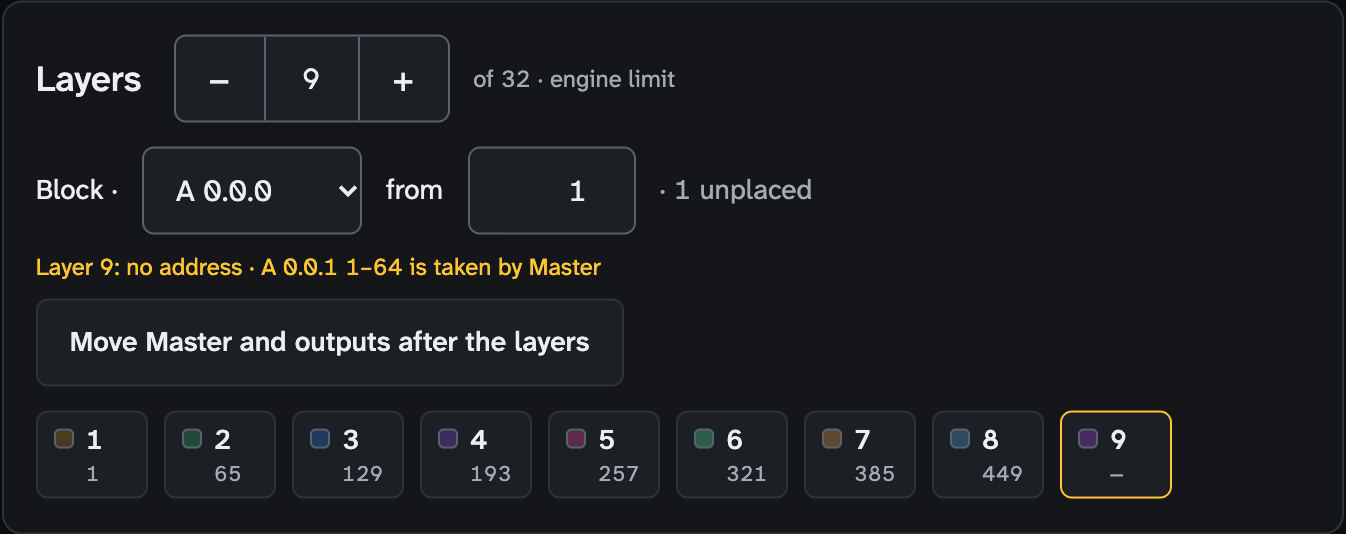
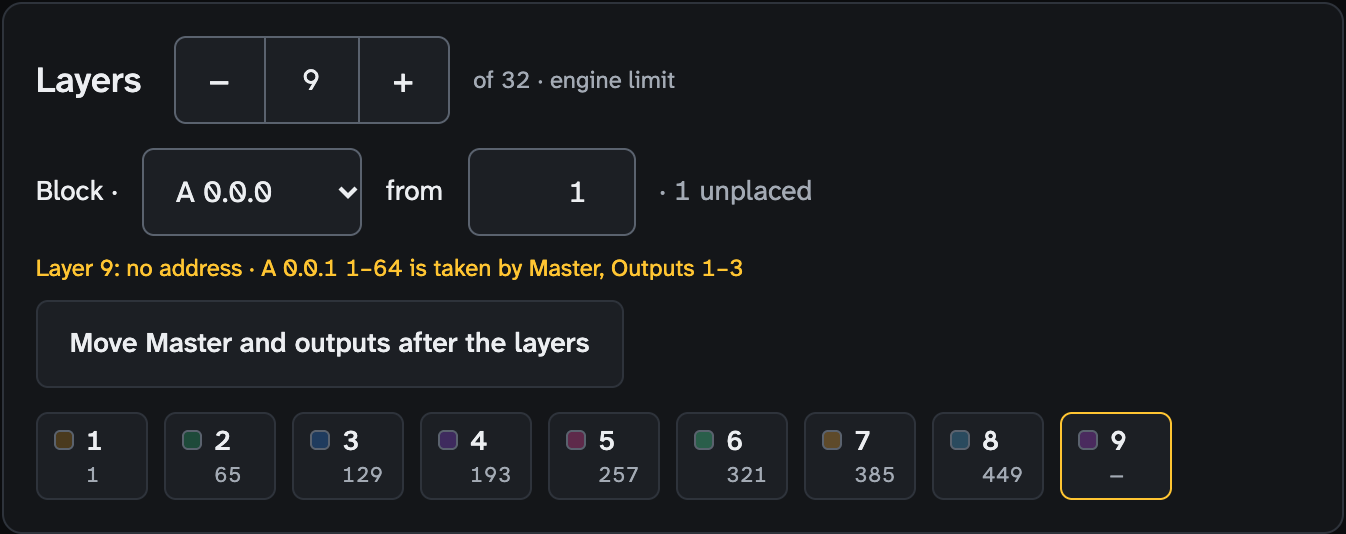
Offer the move only when every blocker moves, retake the picture
moveAfterLayers offered the move when one blocker was in a later group,
so a Keystone placed by hand in a group without a block stayed under the
new layer. The test pins both cases; DESIGN quotes the new note and the
guide picture shows it (demo project, standard patch, three outputs).

diff --git a/web/src/lib/patch-screen.ts b/web/src/lib/patch-screen.ts
@@ -556,7 +556,8 @@ export function standardStart(groups: readonly Group[], index: number): Slot | n
  * "Move Master and outputs after the layers" (DESIGN §6.6 item 2), offered when a layer found no room because a later
  * group sits on its slot: lays each later group that has a block from the universe after the last layer slot, each
  * after the one before, and puts the unplaced layers on their slots, as one `patch.setMany`. Null when no layer is
- * blocked by a later group, or a later group would run past the last universe.
+ * blocked, when something in a layer's way would stay (placed by hand, or in a group without a block), or a later group
+ * would run past the last universe.
  */
 export function moveAfterLayers(groups: readonly Group[]): PatchEntry[] | null {
   const i = groups.findIndex((g) => g.ownUniverses);
@@ -564,8 +565,8 @@ export function moveAfterLayers(groups: readonly Group[]): PatchEntry[] | null {
   const start = layers?.block.start;
   if (!layers || !start) return null;
   const later = groups.slice(i + 1);
-  const names = new Set(later.flatMap((g) => g.rows.map((r) => r.name)));
-  if (!layers.rows.some((r) => r.blocked?.by.some((o) => names.has(o.name)))) return null;
+  const blockers = layers.rows.flatMap((r) => r.blocked?.by ?? []);
+  if (blockers.length === 0) return null;
   const slots = groupSlots(layers, start);
   const entries: PatchEntry[] = [];
   for (const r of layers.rows) {
@@ -582,7 +583,8 @@ export function moveAfterLayers(groups: readonly Group[]): PatchEntry[] | null {
     }
     from = after(g, from);
   }
-  return entries;
+  const moved = new Set(entries.map((e) => e.fixture));
+  return blockers.every((o) => moved.has(o.name)) ? entries : null;
 }
 
 /**

diff --git a/web/src/lib/patch-screen.test.ts b/web/src/lib/patch-screen.test.ts
@@ -349,6 +349,17 @@ describe('blocks', () => {
     // every output in the way is named, Keystone 2 at 89 is past the layer's 64 channels
     const seven = buildPatch([...patch, ...[3, 4, 5, 6, 7].map((n) => at(`Output ${n}`, 'artnet:0.0.1', 1 + 8 * n))], 9, map, [1, 2, 3, 4, 5, 6, 7]);
     expect(rowStatus(seven.rows.find((r) => r.name === 'Layer 9')!, 'internal').text).toBe('no address · A 0.0.1 1–64 is taken by Master, Outputs 1–7');
+    // a Keystone placed by hand is in the way too, while its outputs have no block: the move would lay Layer 9 on
+    // it, so it is not offered; with the outputs patched the Keystone moves along with them
+    const lone = buildPatch([...standard.slice(0, 9), at('Keystone 2', 'artnet:0.0.1', 40)], 9, map, [1, 2]);
+    expect(rowStatus(lone.rows.find((r) => r.name === 'Layer 9')!, 'internal').text).toBe('no address · A 0.0.1 1–64 is taken by Master, Keystone 2');
+    expect(moveAfterLayers(lone.groups)).toBeNull();
+    const along = buildPatch([...standard, at('Keystone 2', 'artnet:0.0.1', 40)], 9, map, [1, 2]);
+    expect(moveAfterLayers(along.groups)).toEqual([
+      at('Layer 9', 'artnet:0.0.1', 1),
+      at('Master', 'artnet:0.0.2', 1),
+      at('Output 1', 'artnet:0.0.2', 9), at('Output 2', 'artnet:0.0.2', 17), at('Keystone 2', 'artnet:0.0.2', 89),
+    ]);
     // nothing blocked: not offered
     expect(moveAfterLayers(buildPatch(standard, 8, map, [1, 2]).groups)).toBeNull();
   });

diff --git a/docs/BACKLOG.md b/docs/BACKLOG.md
@@ -173,7 +173,7 @@ has to act (engine = this codebase, owner = Tim).
 | B165 | An image sequence is always transcoded at 25 fps from the Media screen (`Media.svelte:132` sends `fps: 25`, no field), so a 24, 30 or 50 fps sequence is conformed to 25; only the `fanousd ingest --fps` command and the ingest API take another rate. Found in the docs gap analysis 2026-11-05 | Docs rewrite 2026-11-05 | A frame-rate field on the sequence tile (default 25) | web |
 | B166 | The ArtPollReply advertises the Mac's first non-loopback IPv4 address in `getifaddrs` order (`DMXReceivers.swift:67`, `SystemInfo.swift:31`), not the address on the poller's subnet, so a desk that unicasts to discovered nodes can pick the Wi-Fi address on a Mac with a show adapter; the MAC field is zero (the call at `DMXReceivers.swift:68-70` passes none; `ArtNet.swift:134,151`), so two Macs look like one node to a desk that keys on MAC. Found in the docs review 2026-11-05 | Docs rewrite 2026-11-05 | Reply with the address of the interface the ArtPoll arrived on and the real MAC | engine |
 | B167 | A program that holds UDP 6454 exclusively makes the Art-Net listener fail with a log line only (`DMXReceivers.swift:36`); the readiness list has an item for the sACN port but none for Art-Net (`ShowMode.swift:254-260`). Found in the docs review 2026-11-05 | Docs rewrite 2026-11-05 | A readiness item "Art-Net port 6454 available" like the sACN one | engine |
-| B168 | ~~When Add layer finds the new layer's place taken, the note names only the first fixture in the way (`takenBy`, `patch-screen.ts:484`: "taken by Master") although the outputs at 9–32 overlap too. Found in the docs review 2026-11-05~~ **Done 2026-11-06** (PR #320): the note names every patched fixture on the new layer's channels, by address, through the Universes panel's `fixturesText` ("taken by Master, Outputs 1–3"), so a long run stays one short phrase; Move Master and outputs is offered when any of them belongs to a later group | Docs rewrite 2026-11-05 | Name every fixture in the way | web |
+| B168 | ~~When Add layer finds the new layer's place taken, the note names only the first fixture in the way (`takenBy`, `patch-screen.ts:484`: "taken by Master") although the outputs at 9–32 overlap too. Found in the docs review 2026-11-05~~ **Done 2026-11-06** (PR #320): the note names every patched fixture on the new layer's channels, by address, through the Universes panel's `fixturesText` ("taken by Master, Outputs 1–3"), so a long run stays one short phrase; Move Master and outputs is offered only when every one of them moves (not with a fixture placed by hand outside a group block in the way) | Docs rewrite 2026-11-05 | Name every fixture in the way | web |
 | B169 | **Transcode** on a `.mov` that needs a transcode (H.264 or HEVC in `.mov`, which is what an iPhone records, or a rotated ProRes file) fails with "source and destination are the same file": the tile sends the source's own number and name (`Media.svelte:131-132`), `IngestAPI` builds the destination `NNN_name.mov` from them, and `IngestQueue.swift:259` refuses. Measured 2026-11-05 on the test engine with an H.264 `.mov`: the job fails at once. **Import…** works for such a file (the destination gets the next free number). Found in the docs review 2026-11-05 | Docs rewrite 2026-11-05 | Write to a temporary name and move the source to `_originals/` first, as Import does | engine |
 | B170 | The ingest queue shows the destination path URL-encoded (`2%20Band/002_phone.mov` for a folder named `2 Band`, `MediaIngestQueue.svelte`). Found while taking the guide's pictures 2026-11-05 | Docs rewrite 2026-11-05 | Decode the path for display | web |
 | B171 | The show lock does not cover the library: `POST /api/library/folder`, `/api/ingest` and `PUT /api/upload` check the programmer role only (`RESTRoutes.swift:38-62`), so New folder, Import… and Transcode work on a locked show while every WebSocket change is refused; the guide says so. Found in the docs review 2026-11-05 | Docs rewrite 2026-11-05 | Decide whether a locked show should refuse library writes too (a transcode costs CPU during a show) | engine |

diff --git a/docs/DESIGN.md b/docs/DESIGN.md
@@ -964,8 +964,9 @@ code on 2026-10-30:
   moving a block and editing one fixture may overlap; the overlap shows in
   red, as today.
 - **A new fixture that found no room** says why: "no address · A 0.0.1 1–64 is
-  taken by Master". In the common case (an 8-layer project adding Layer 9,
-  whose slot is the Master's) the Layers group offers **Move Master and
+  taken by Master, Outputs 1–3" (every fixture in the way). In the common
+  case (an 8-layer project adding Layer 9, whose slot is the Master's) the
+  Layers group offers **Move Master and
   outputs after the layers**: one `patch.setMany` that moves the Master,
   Outputs and Keystone blocks to the universe after the last layer slot and
   puts the unplaced layers on their slots, as one undo step. It changes the
@@ -1161,7 +1162,7 @@ guide changes with the step that changes what it describes (4–6).
   the anchor's start falls below 1, Re-lay lays from address 1 of the anchor's
   universe.
 - The Master group has the same block line as the others (a block of one).
-- The blocker ("no address · A 0.0.1 1–64 is taken by Master", yellow) is
+- The blocker ("no address · A 0.0.1 1–64 is taken by Master, Outputs 1–3", yellow) is
   named only while the group is a Block, since only a block gives the fixture a
   slot; in a Custom group a fixture without an address shows the policy words.
   Move Master and outputs after the layers is offered when such a blocker
